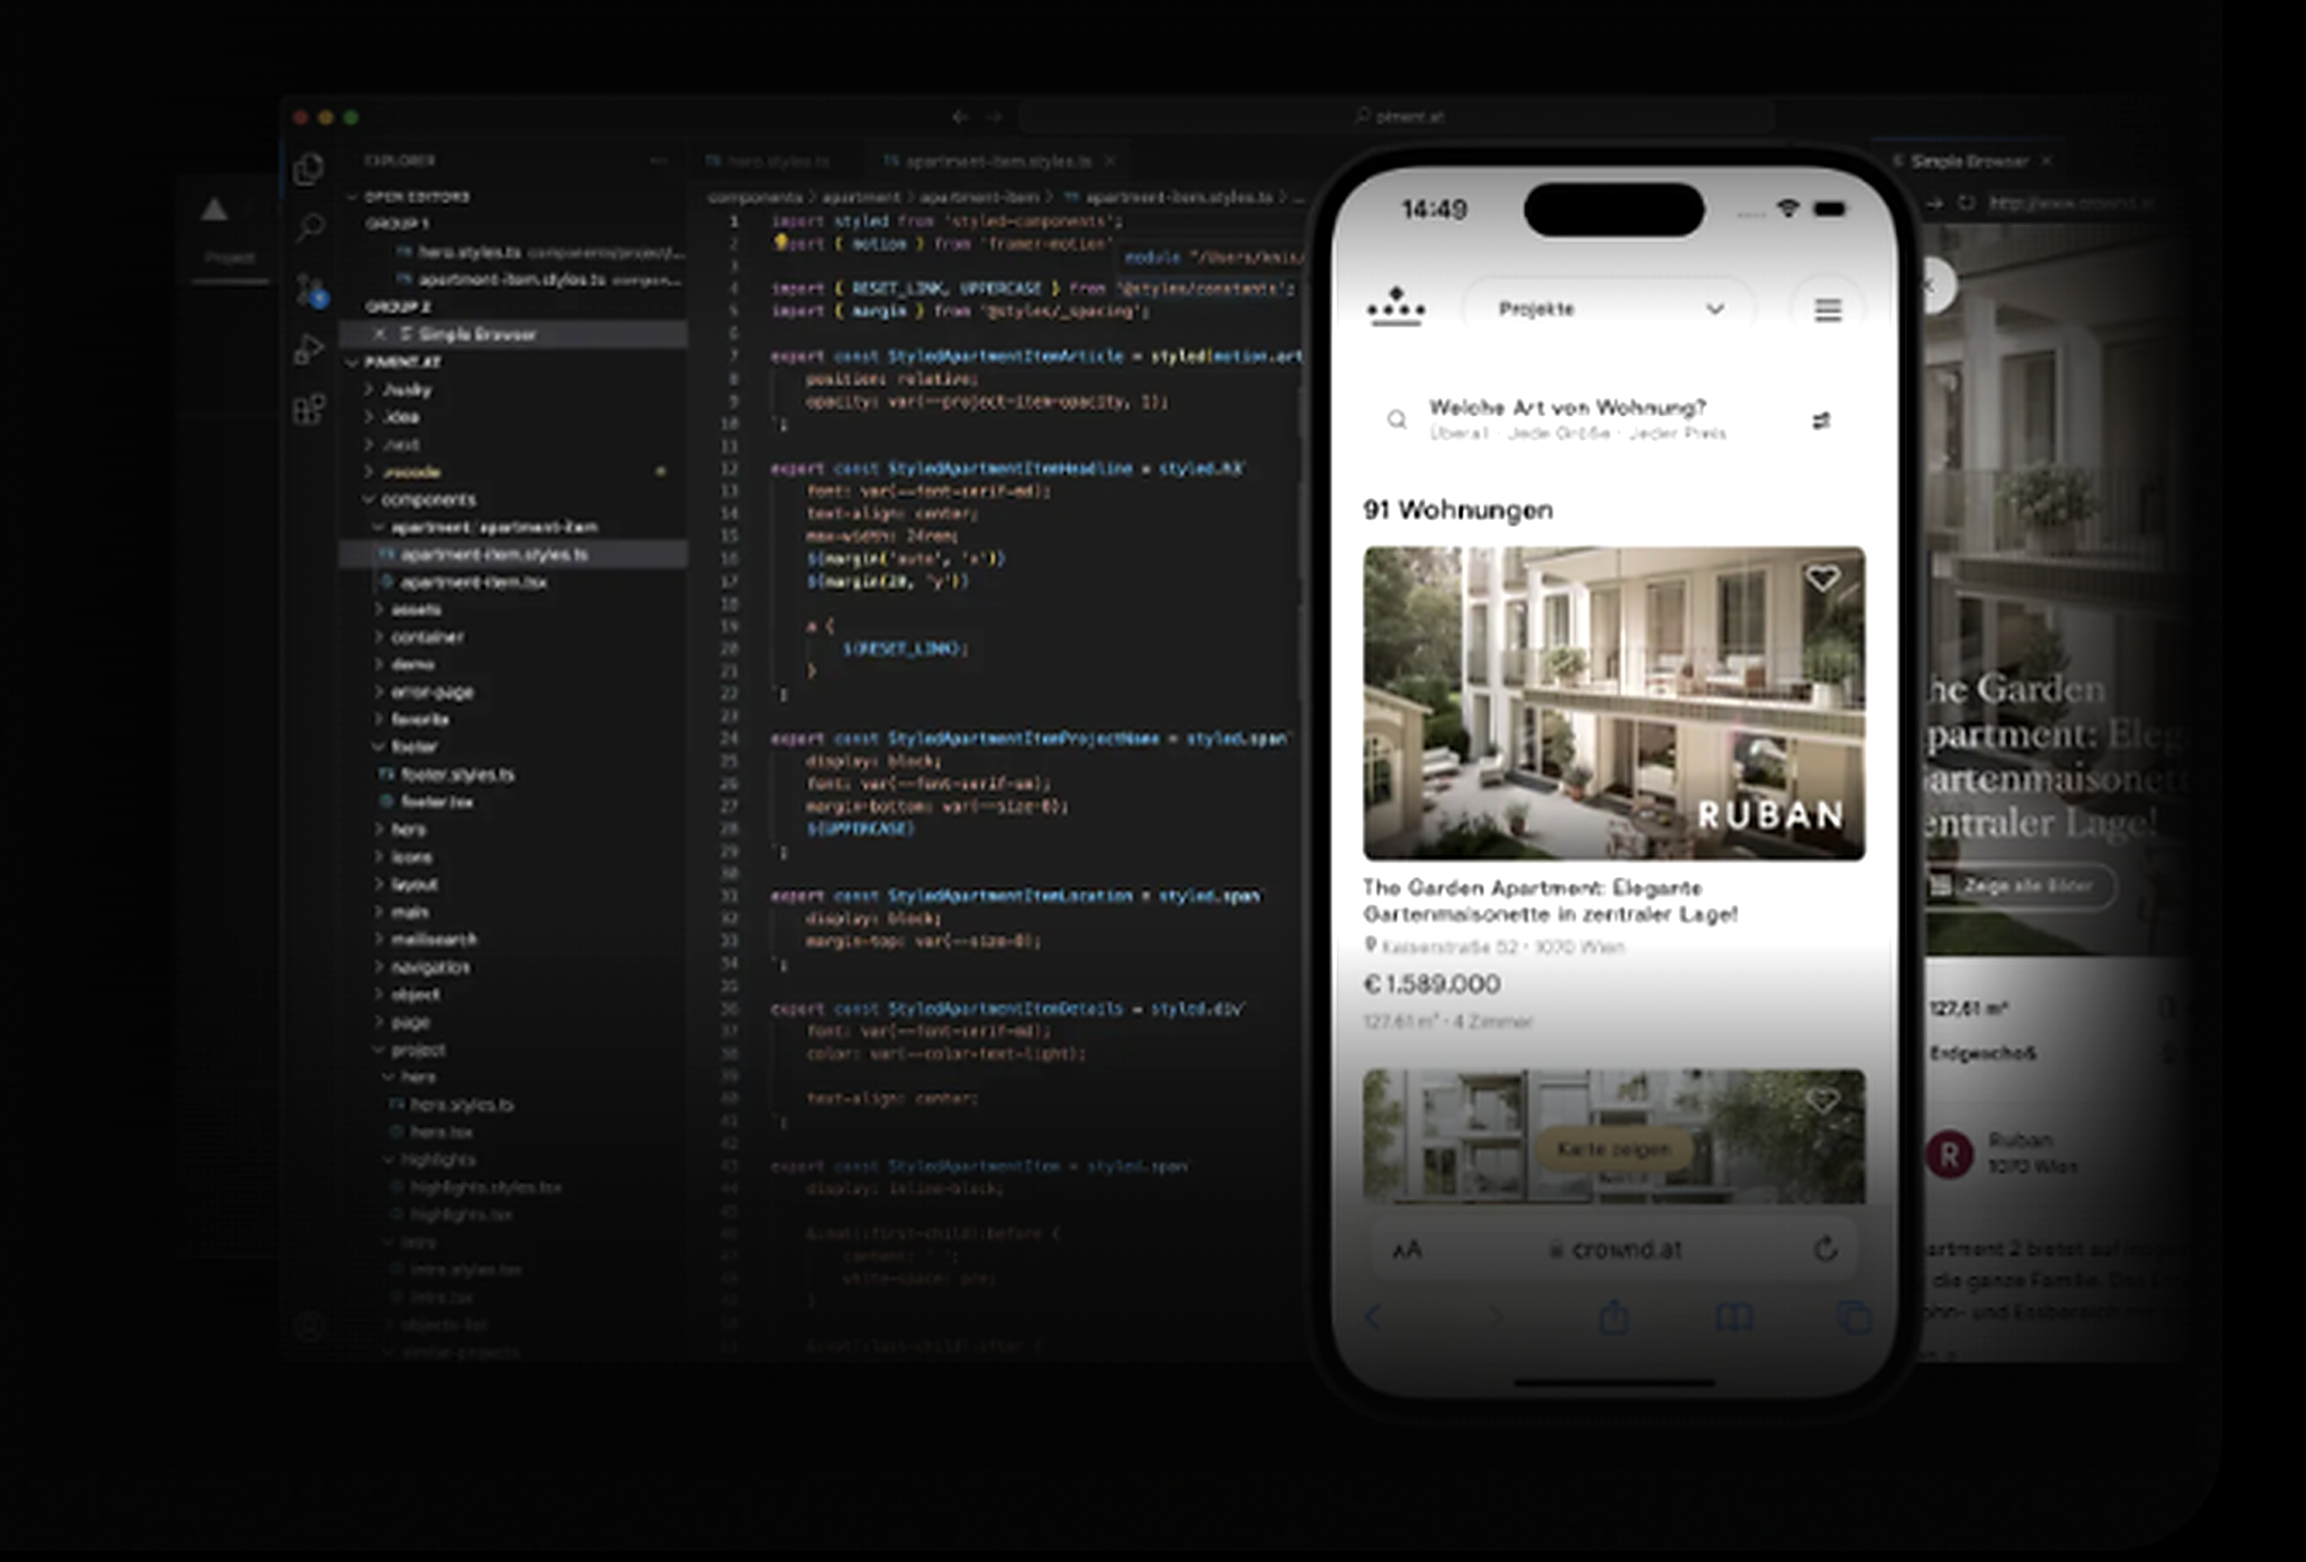
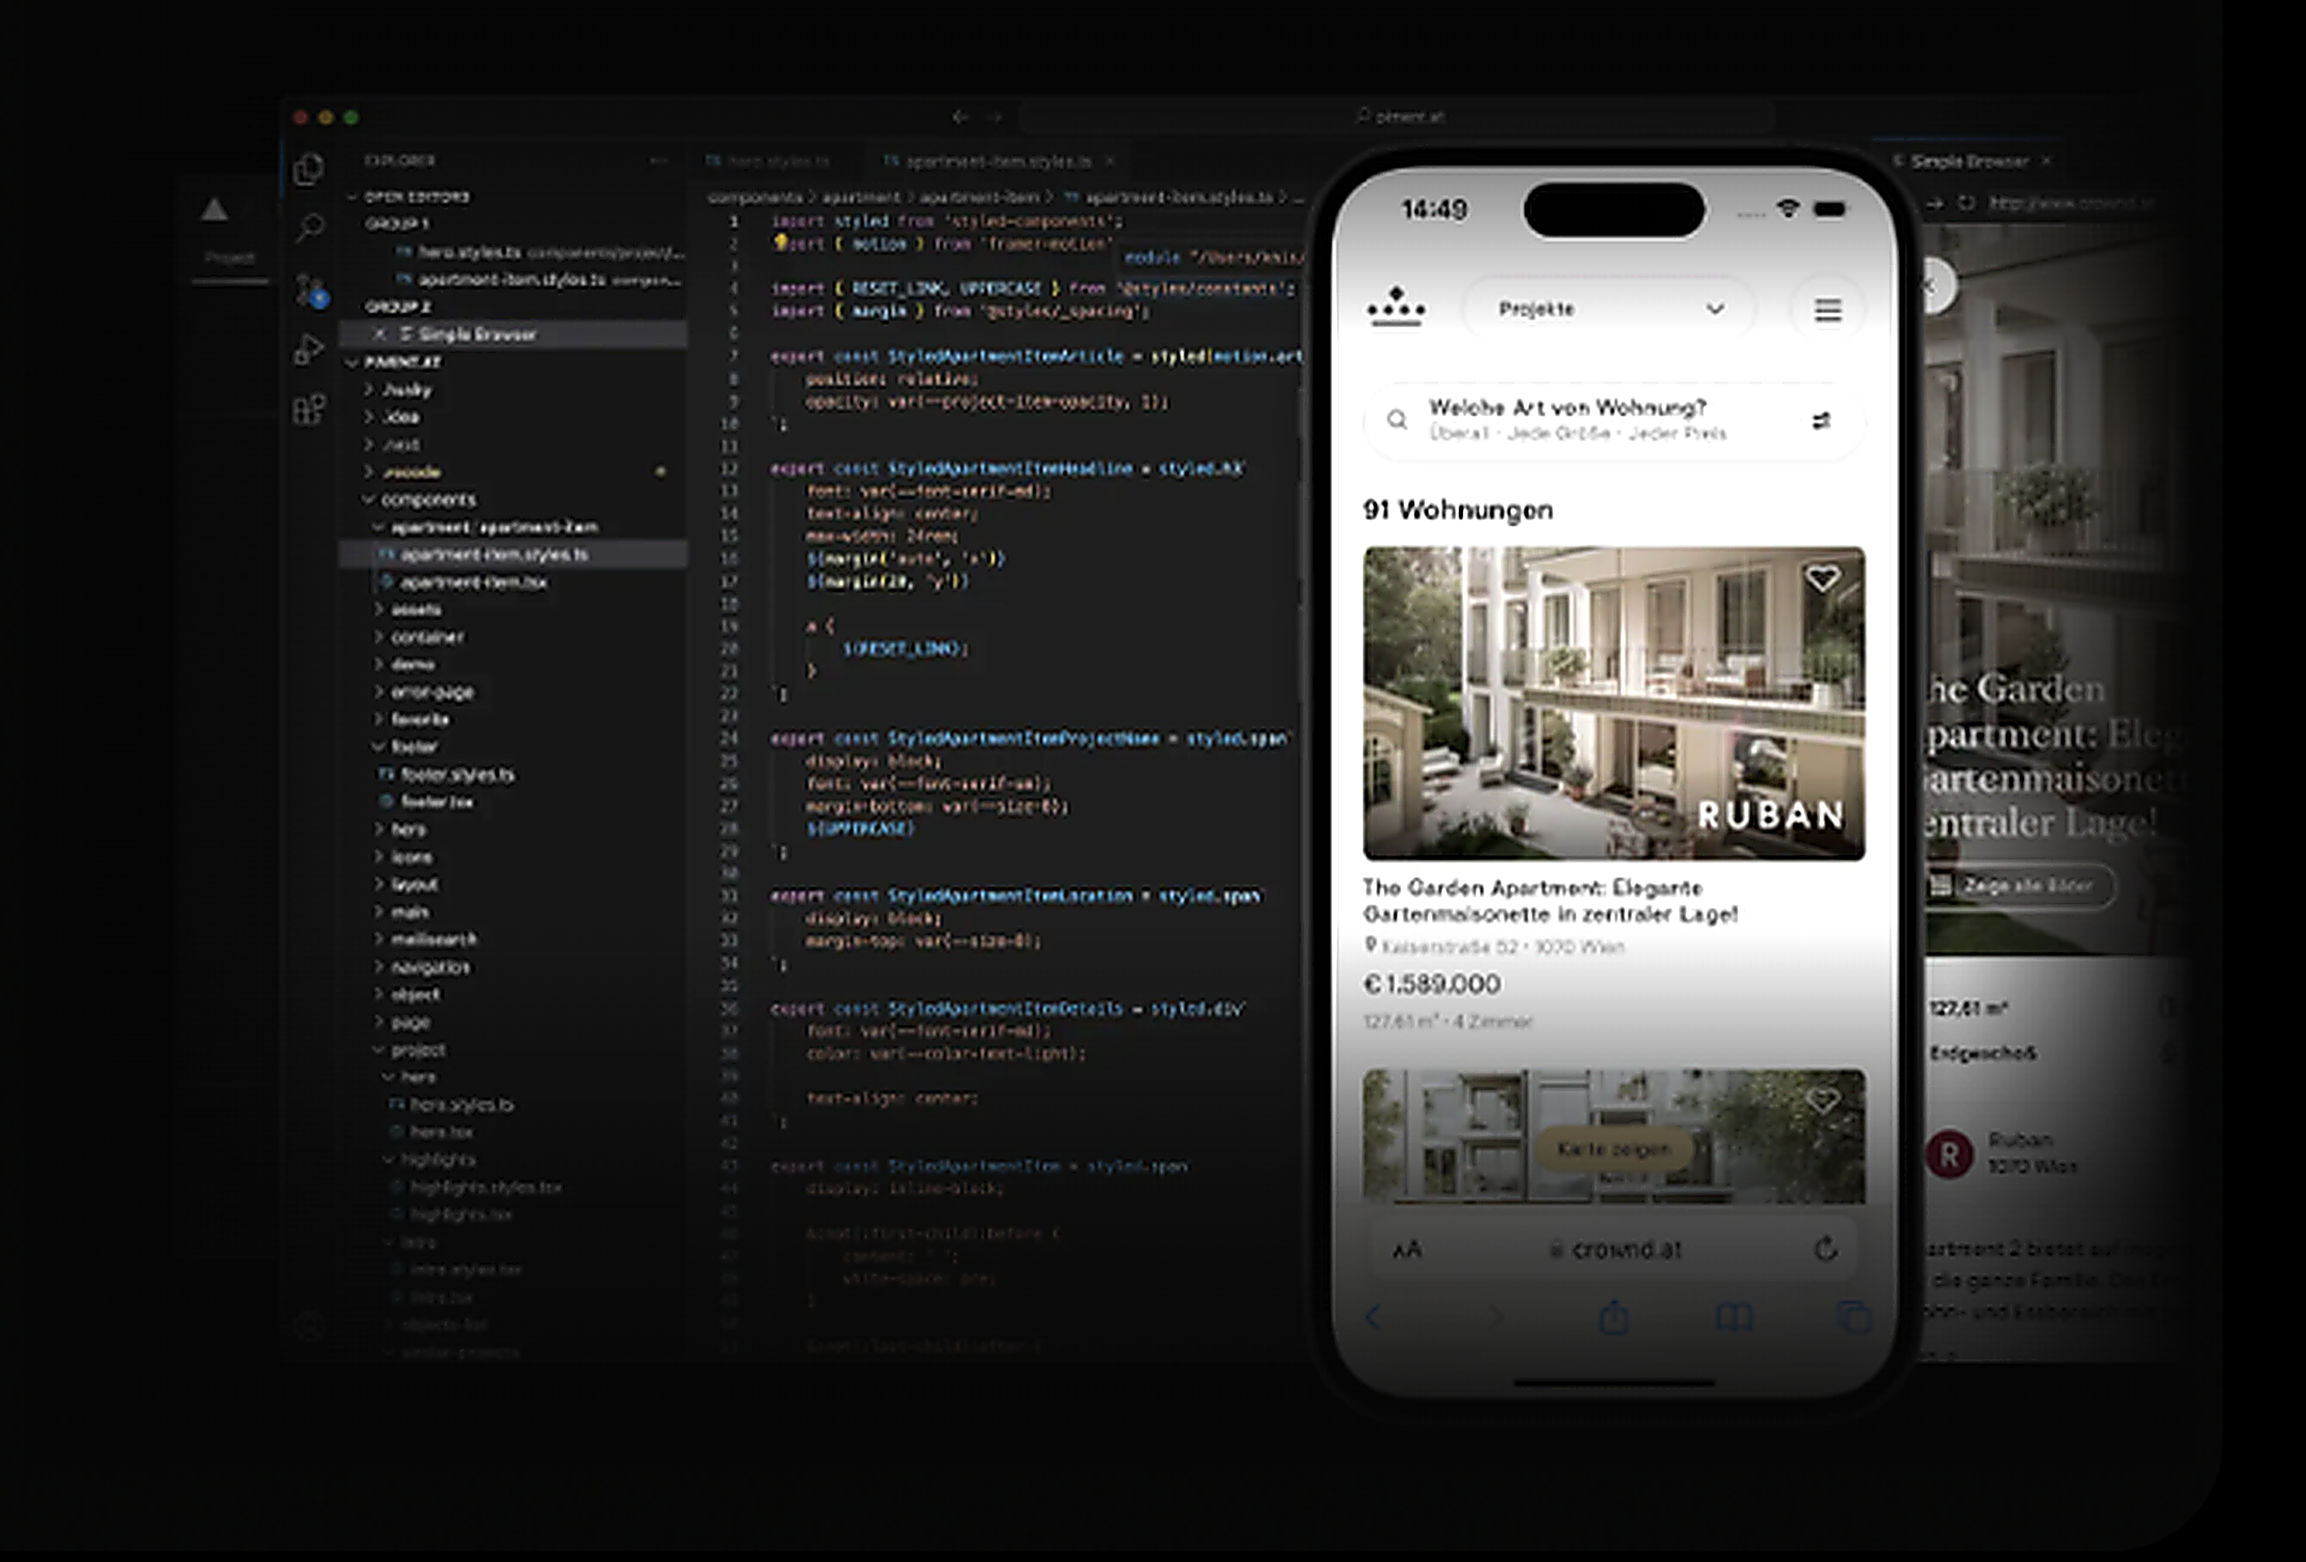
feat(hero): crisp 4K uncropped multi-pass sharpened developer mockup

diff --git a/src/components/HeroSection.tsx b/src/components/HeroSection.tsx
@@ -250,7 +250,7 @@ export const HeroSection = () => {
               <img
                 src="/hero-dev.png"
                 alt="Saim Dev — Full Stack Developer Portfolio Preview"
-                className="w-full h-full object-cover object-center"
+                className="w-full h-full object-contain object-right"
                 style={{ imageRendering: "high-quality" }}
                 loading="eager"
                 decoding="sync"
@@ -262,6 +262,7 @@ export const HeroSection = () => {
     </section>
   );
 };
+
 
 
 
